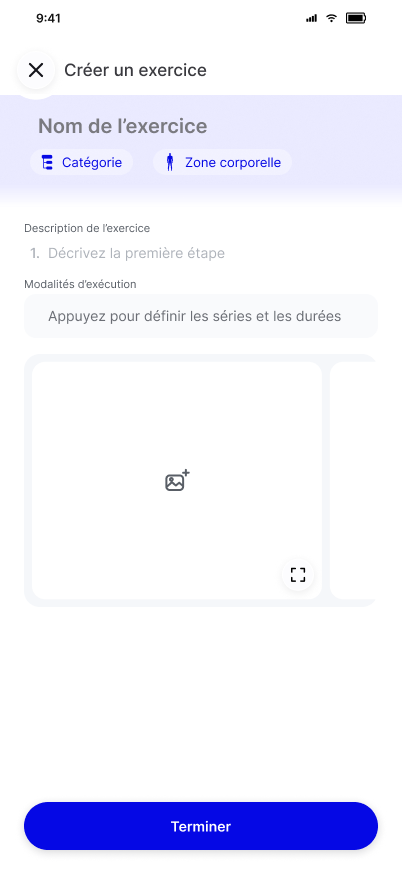
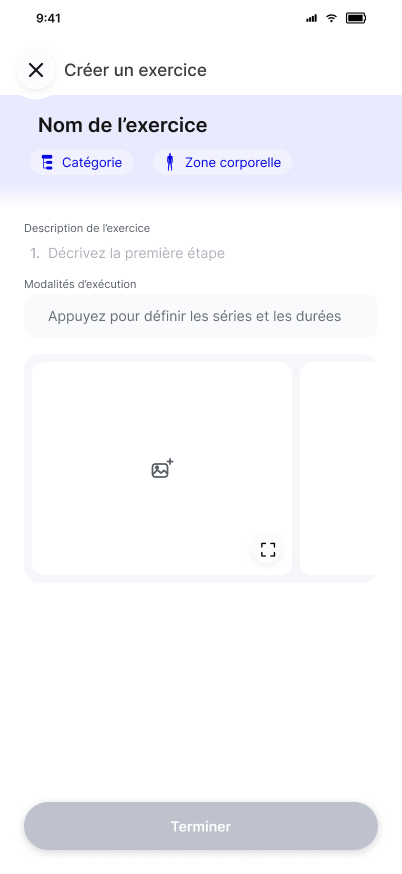
docs(figma): synchroniser 4 états Terminer désactivé avec les tokens KODJO

diff --git a/docs/Specifications-fonctionnelles/13 – Contrats d’écran.md b/docs/Specifications-fonctionnelles/13 – Contrats d’écran.md
@@ -765,7 +765,7 @@ Tap, saisie et défilement du formulaire. Toucher une tuile Média la consulte :
 
 #### 14. Validation
 
-Nom, exactement une Catégorie et au moins une Zone pour un nouvel Exercice ; maintien des affectations retirées D-210. Paramètres exécutables issus de CE-UI-10. Terminer inactif si paramètres absents/invalides ; la couleur d’exemple de Figma ne suffit pas à valider.
+Nom, exactement une Catégorie et au moins une Zone pour un nouvel Exercice ; maintien des affectations retirées D-210. Paramètres exécutables issus de CE-UI-10. Terminer inactif si paramètres absents/invalides ; la couleur d’exemple de Figma ne suffit pas à valider. Pour les états incomplets du formulaire, son fond est lié au token Figma `color/disabled` (`#BEC2CC`) à opacité 100 % ; pour un état valide, le bouton d’action actif est lié à `color/primary` (`#0508E5`). Le rendu gris matérialise l’inactivité sans définir à lui seul la validité métier (évidences Figma `8328:35698`, `8328:35740`, `8328:36278`, `8328:36853` ; état actif `8328:37022`).
 
 Toutes les Séries actives doivent être valides ; Total variable en lecture seule, aucune cible uniforme utilisée à sa place.
 
